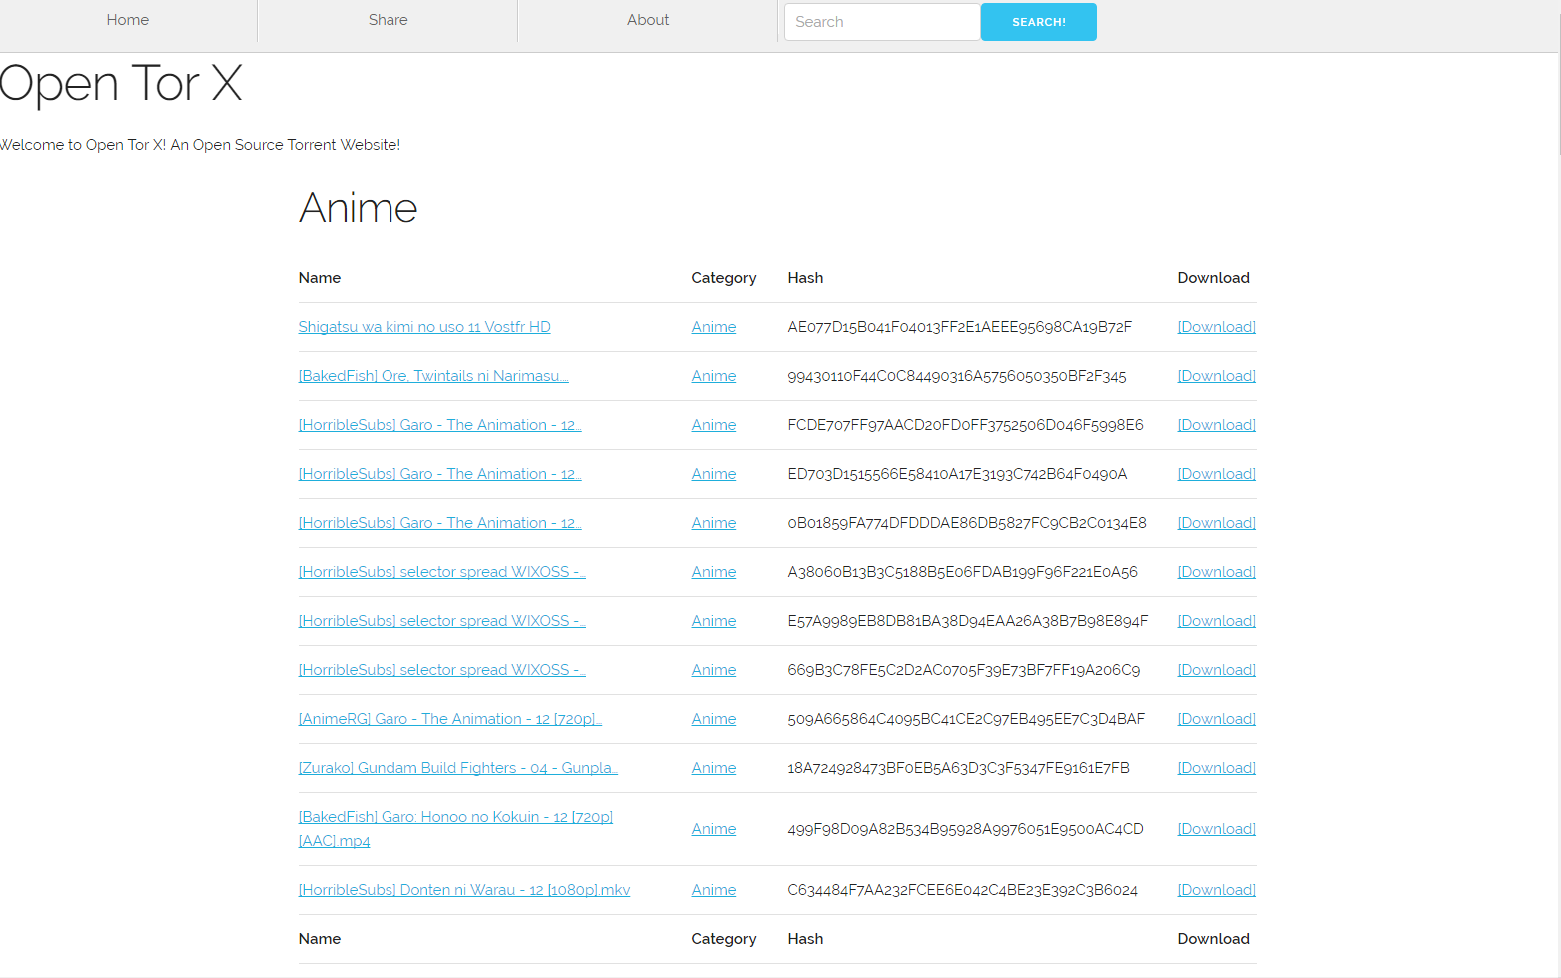
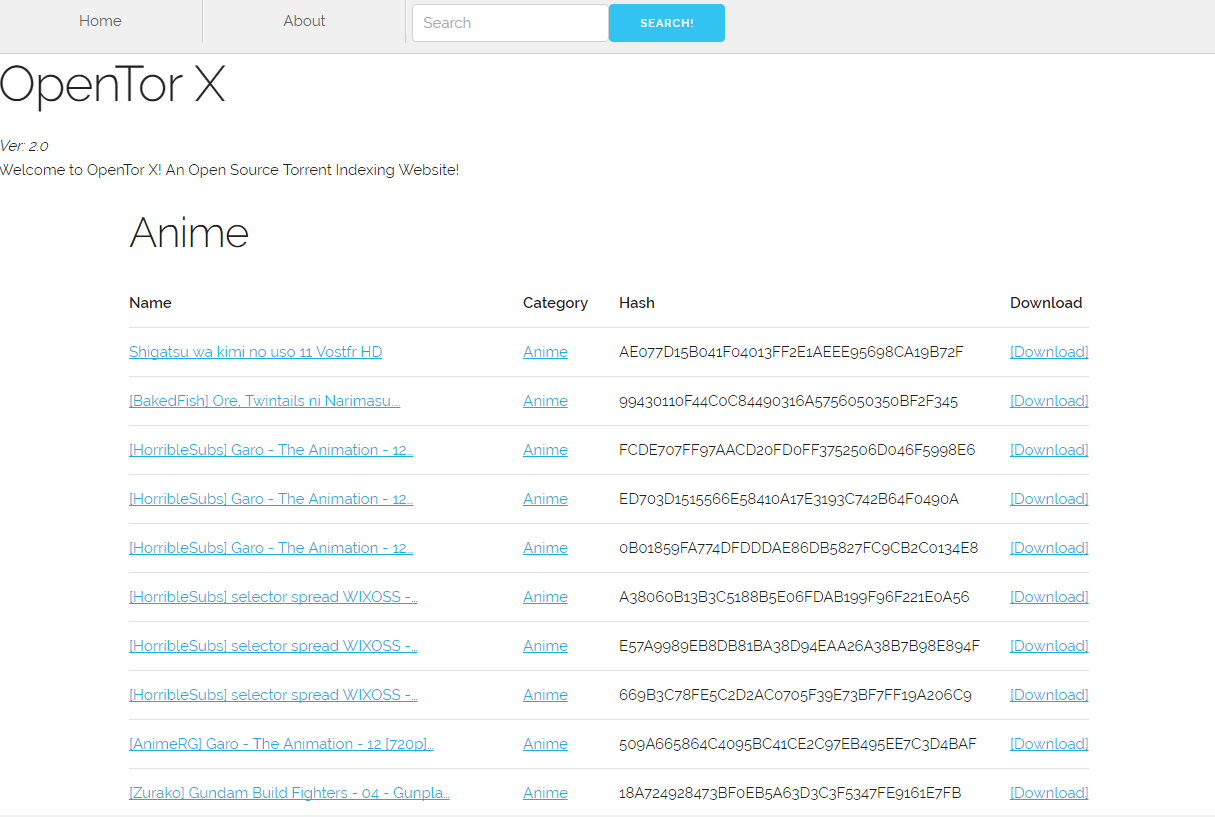
[FEATURE] New preview + new footer.

diff --git a/public_html/assets/css/app.css b/public_html/assets/css/app.css
@@ -43,3 +43,7 @@ nav ul li a {
     color: #616161;
     padding: 10px 0;
 }
+
+footer p {
+    text-align: center;
+}

diff --git a/public_html/application/config/database.php b/public_html/application/config/database.php
@@ -50,7 +50,7 @@ $active_record = TRUE;
 
 $db['default']['hostname'] = 'localhost';
 $db['default']['username'] = 'root';
-$db['default']['password'] = 'mysql';
+$db['default']['password'] = 'root';
 $db['default']['database'] = 'opentorx';
 $db['default']['dbdriver'] = 'mysql';
 $db['default']['dbprefix'] = '';

diff --git a/public_html/application/views/default/header.php b/public_html/application/views/default/header.php
@@ -30,7 +30,8 @@
 	<div class="row">
 		<div class="twelve">
 			<h1>OpenTor X</h1>
-			<p>Welcome to OpenTor X! An Open Source Torrent Website!</p>
+			<i>Ver: 2.0</i>
+			<p>Welcome to OpenTor X! An Open Source Torrent Indexing Website!</p>
 		</div>
 	</div>
 </div>

diff --git a/public_html/application/views/default/footer.php b/public_html/application/views/default/footer.php
@@ -1,5 +1,12 @@
 		</div>
 	</div>
+	<footer>
+		<hr>
+		<p>
+			<a href="/">Home</a> |
+			<a href="/about">About</a>
+		</p>
+	</footer>
 </div>
 </body>
 </html>

diff --git a/README.md b/README.md
@@ -3,7 +3,7 @@
 OpenTorX is a open source content index website, freely available for anyone to 
 use for personal or comercial use under the MIT license.
 
-![preview](https://raw.githubusercontent.com/ajm113/Open-Tor-X/development/preview.png)
+![preview](https://raw.githubusercontent.com/ajm113/Open-Tor-X/master/preview.png)
 
 I'll be setting up a demo sometime soon.
 
@@ -19,8 +19,8 @@ PHP 4.5 =>
 These steps assume you know proper server configurations and or know how to setup a virtual server
 in apache or other web servers for local machine access.
 
-1. Clone / Extract source code to a web server directory.
-2. Configure mysql settings in database.php located in. "/application/config/" and create a new database or use a already made one.
+- Clone / Extract source code to a web server directory.
+- Configure mysql settings in database.php located in. "/application/config/" and create a new database or use a already made one.
 
 Change these lines to access the database.
 
@@ -35,21 +35,17 @@ $db['default']['dbdriver'] = 'mydatabasesystem';
 
 Supported:  mysql, mysqli, postgre, odbc, mssql, sqlite, oci8
 
-3. Import opentorx_data_dump.sql into your database. This file includes the table structure.
+- Import opentorx_data_dump.sql into your database. This file includes the table structure.
 
 NOTE: This dump file is using KAT partial dump. (When it was online at the time.)
 
-4. Enjoy the experience!
+- Enjoy the experience!
 
 # Troubleshooting:
 
 *How come the torrent download links are broken?*
 
 The site hosting the torrents has went down. For now the already available dump will be a placeholder until you get some real data.
-
-*I'm getting errors/warnings from swiss_cache.php on some pages!*
-
-Ensure your cache folder has full permissions! Set folder /application/cache to 0777.
 
 *I can load the front page fine, but I get apache/web server 404 error on other pages!*
 
@@ -68,16 +64,8 @@ YES! Be sure to send me a link!
 
 *I still need help! :(*
 
-You can ask questions on the github page or contact me!
+You can ask questions on the github issue page or contact me!
 
-*Whats your email?*
+*How come share isn't available?*
 
-andrewmcrobb at gmail d.o.t com
-
-*APC cache isn't working!*
-
-swiss_cache is still in alpha and I will be working on a fix soon! (Swiss Cache may get removed even)
-
-*How come share isn't working?*
-
-This feature is going to be depricated!
+This feature is going to be depricated and removed! (Also the site torcache site is gone.)
